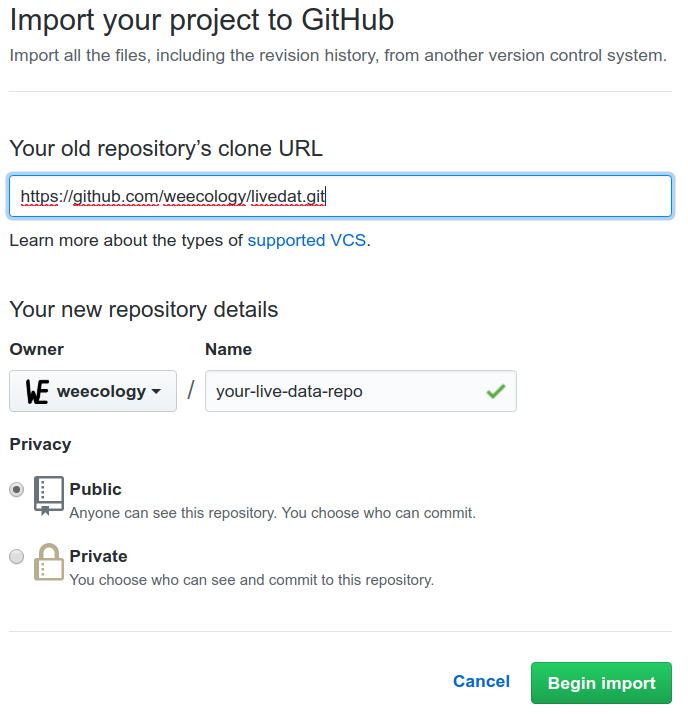
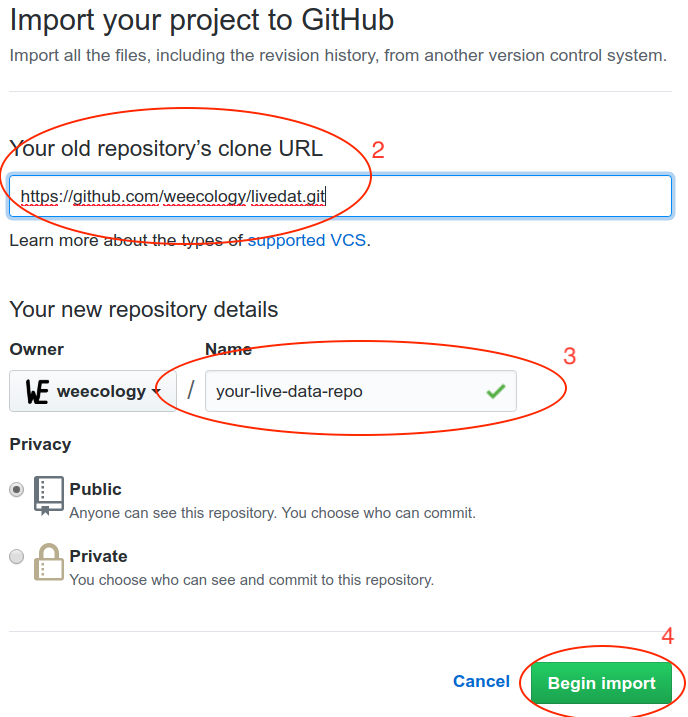
Add markup to screeshots, fix typos

diff --git a/README.md b/README.md
@@ -10,7 +10,7 @@ Template and instructions for creating a living data workflow.
 6. [Implement your data cleaning and manipulation steps](#datacleaning)
 7. [Some thoughts on security](#security)
 
-This assumes a basic knowledge of git and GitHub.
+This assumes a basic knowledge of git and GitHub, and an active GitHub account.
 
 ## Make a copy of this repository <a name="copyrepo"></a>
 
@@ -82,10 +82,10 @@ https://github.com/new/import
 5. Approve access to that repository by clicking the green `Approve & Install`
    button
    
-   ![Screenshot of approving repository access](screenshots/travis_activate_approve_repo.png)
+   ![Screenshot of approving repository access](screenshots/travis_approve_repo.png)
 
-6. You will be redirected to Travis. Click the `Sign in with GitHub button and
-   your done.
+6. You will be redirected to Travis. Click the `Sign in with GitHub` button and
+   you're done.
    
    ![Screenshot of signing back into Travis](screenshots/travis_final_signin.png)
 
@@ -99,7 +99,7 @@ it to change most of the core things in your repositories.
 
    ![Screenshot of GitHub Settings menu](screenshots/github_menu.png)
 
-2. Select `Developer Settings` from the bottom of the `Personal settings menu on
+2. Select `Developer Settings` from the bottom of the `Personal settings` menu on
    the left of the screen
 
    ![Screenshot of GitHub Developer Settings menu item](screenshots/github_personal_settings_menu.png)
@@ -113,8 +113,7 @@ it to change most of the core things in your repositories.
 
    ![Screenshot of Generate new token button](screenshots/github_generate_new_token.png)
 
-5. Enter a clear description of the use of this connection in the `Token
-   description` box
+5. Enter a clear description of the use of this connection in the `Token description` box
 
    ![Screenshot of token description box](screenshots/github_token_description.png)
 
@@ -131,8 +130,7 @@ it to change most of the core things in your repositories.
 
    ![Screenshot of personal access token and copy button](screenshots/github_pat_copy.png)
 
-9. Go to https://travis-ci.com/ and choose your data repository from the `My
-   Repositories` list of the left side of the screen
+9. Go to https://travis-ci.com/ and choose your data repository from the `My Repositories` list on the left side of the screen
 
    ![Screenshot of My Repositories menu on Travis](screenshots/travis_my_repos_menu.png)
 
